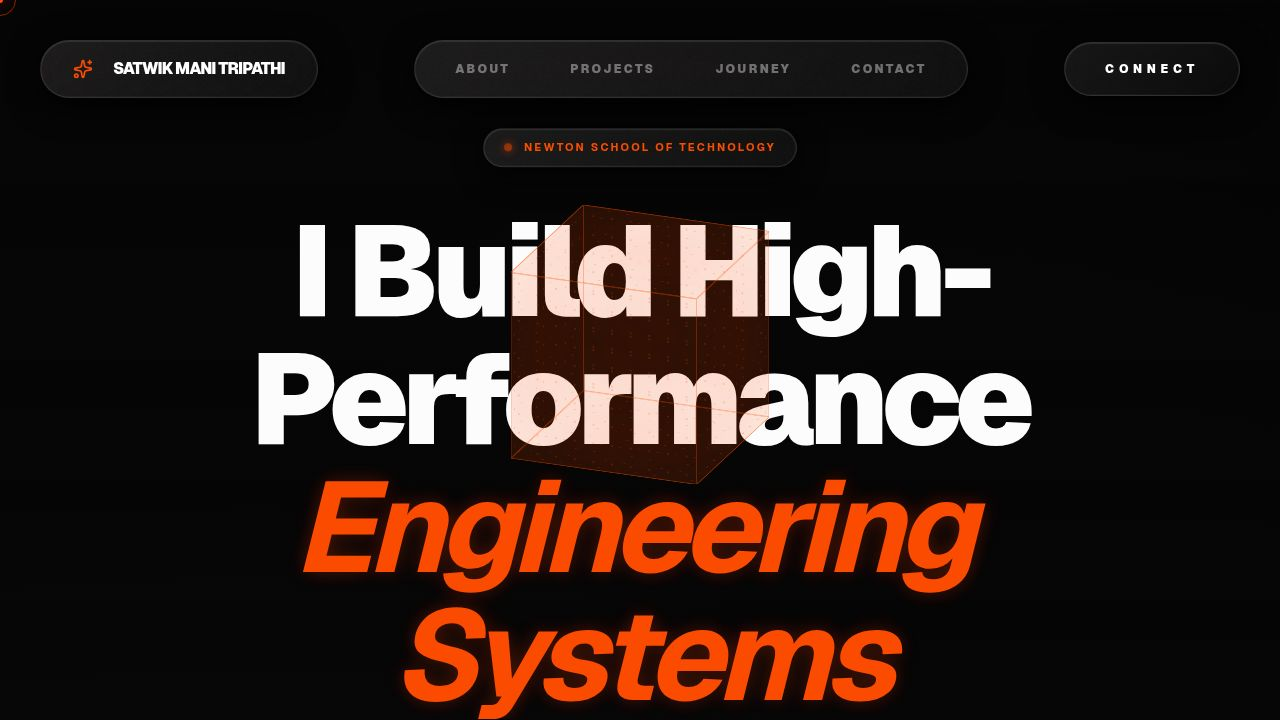
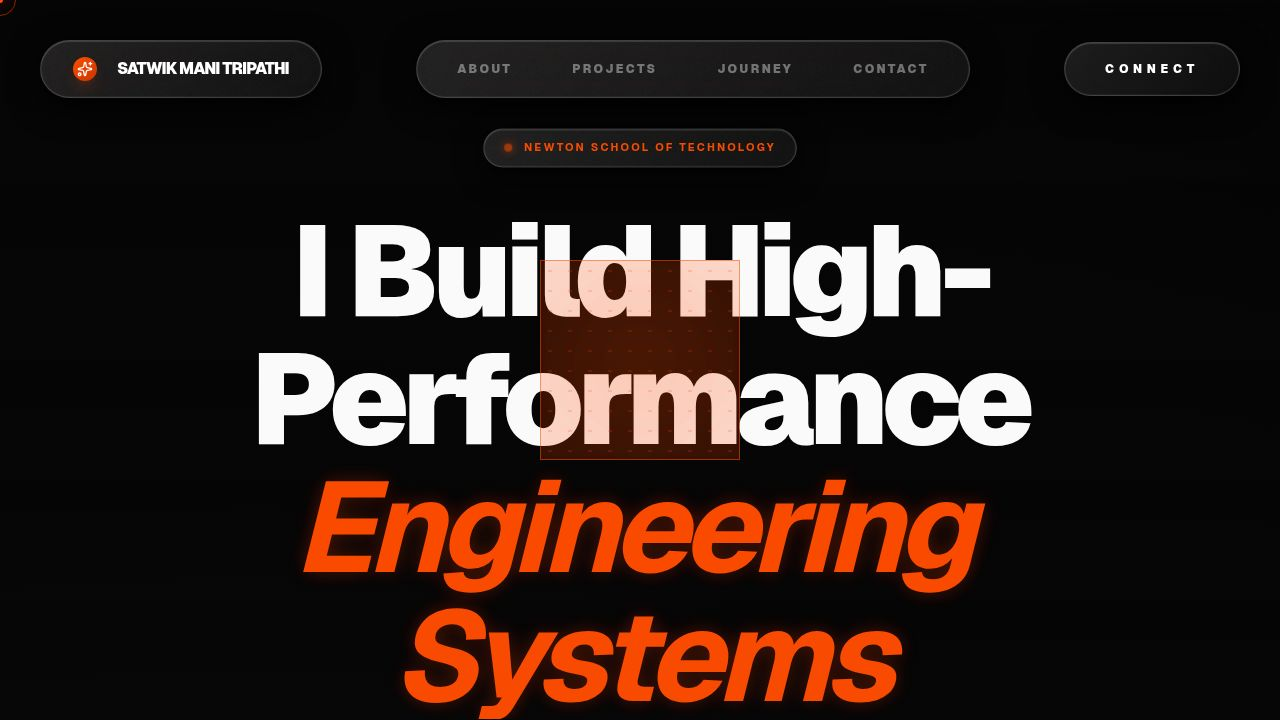
Update portfolio with new project links and refined visual effects
Refines the 'glass' effect in CSS, updates 'SatKart' and 'Edusity' project links and descriptions in `portfolio.tsx`, and modifies the `FloatingCube` component to use scroll progress for rotation and opacity.

Replit-Commit-Author: Agent
Replit-Commit-Session-Id: b985b796-da01-4a46-af7f-7fb098eac1ac
Replit-Commit-Checkpoint-Type: full_checkpoint
Replit-Commit-Event-Id: 80c53ece-b6ea-4242-aa22-f7d85b203408
Replit-Commit-Screenshot-Url: https://storage.googleapis.com/screenshot-production-us-central1/629f8697-c7b1-4d00-ad95-db7141d43aa1/b985b796-da01-4a46-af7f-7fb098eac1ac/iTkoNna
Replit-Helium-Checkpoint-Created: true

diff --git a/client/src/pages/portfolio.tsx b/client/src/pages/portfolio.tsx
@@ -45,17 +45,17 @@ const projectsData: Project[] = [
     architecture: ["Prisma ORM", "Node.js", "JWT Auth", "React", "Tailwind CSS"],
     metrics: ["Full CRUD Operations", "Secure Authentication", "Responsive UI Design"],
     tags: ["Full-stack", "E-commerce", "Web Development"],
-    liveUrl: "https://satkart-commerce.vercel.app",
+    liveUrl: "https://sat-kart-frontend-5ver-iwdeuo3tn-satwiks-projects-8102ca2d.vercel.app/?_vercel_share=Q6KL0B3A6roGyVszSXcjvsLYtdgEfrDf",
   },
   {
     id: "edusity",
-    title: "Edusity — Learning Platform",
-    description: "Educational frontend platform with real-time feedback and responsive learning modules.",
-    longDescription: "Edusity is a modern educational interface designed for clarity and engagement. It delivers a fluid learning experience with instant quiz feedback, progress tracking, and interactive carousels. The project demonstrates advanced frontend state management and accessible UI components built with a focus on usability.",
+    title: "Edusity — University Portal",
+    description: "Higher education platform helping students find the ideal degree and navigate university resources.",
+    longDescription: "Edusity is a specialized university interface designed to guide students through academic decision-making. It features a comprehensive directory of degrees, campus resources, and interactive modules to help prospective students check which path is best for them. The project focuses on clear information hierarchy and accessible educational design.",
     architecture: ["React", "Framer Motion", "Tailwind CSS", "JavaScript", "HTML/CSS"],
-    metrics: ["Interactive Quizzes", "Real-time Search", "Infinite Carousel UI"],
-    tags: ["Frontend Engineering", "EdTech", "UX Design"],
-    liveUrl: "https://edusity-platform.vercel.app",
+    metrics: ["Degree Discovery System", "University Resource Hub", "Responsive Educational UI"],
+    tags: ["Higher Education", "EdTech", "UX Research"],
+    liveUrl: "https://edusity-learning-mrxe.vercel.app/",
   },
 ];
 
@@ -198,8 +198,10 @@ function CursorTrail() {
 }
 
 function FloatingCube() {
-  const { scrollY } = useScroll();
-  const opacity = useTransform(scrollY, [0, 500, 1000], [0.7, 0.4, 0]);
+  const { scrollYProgress } = useScroll();
+  const rotateX = useTransform(scrollYProgress, [0, 1], [0, 360]);
+  const rotateY = useTransform(scrollYProgress, [0, 1], [0, 720]);
+  const opacity = useTransform(scrollYProgress, [0, 0.5, 1], [0.7, 0.4, 0.1]);
 
   return (
     <motion.div 
@@ -207,20 +209,12 @@ function FloatingCube() {
       style={{ opacity }}
     >
       <motion.div
-        animate={{
-          rotateY: [0, 360],
-          rotateX: [0, 360],
-          y: [-20, 20, -20],
-        }}
-        transition={{
-          duration: 15,
-          repeat: Infinity,
-          ease: "linear",
-        }}
         style={{
           width: 200,
           height: 200,
           transformStyle: "preserve-3d",
+          rotateX,
+          rotateY,
         }}
       >
         {[
@@ -233,7 +227,7 @@ function FloatingCube() {
         ].map((transform, i) => (
           <div
             key={i}
-            className="absolute inset-0 border-[1.5px] border-accent/60 bg-accent/10 flex items-center justify-center overflow-hidden"
+            className="absolute inset-0 border-[1.5px] border-accent/60 bg-accent/10 flex items-center justify-center overflow-hidden backdrop-blur-sm"
             style={{ 
               transform,
               backgroundImage: "radial-gradient(circle, rgba(255,68,0,0.3) 1.5px, transparent 1.5px)",
@@ -664,7 +658,9 @@ export default function Portfolio() {
       <header className="fixed top-0 left-0 right-0 z-50 px-10 py-10 pointer-events-none">
         <nav className="mx-auto max-w-7xl flex justify-between items-center pointer-events-auto">
           <div className="glass px-8 py-4 rounded-full flex items-center gap-5 grain ring-1 ring-white/30 shadow-2xl backdrop-blur-xl">
-            <Sparkles className="h-5 w-5 text-accent" />
+            <div className="h-6 w-6 rounded-lg bg-gradient-to-br from-accent to-orange-700 flex items-center justify-center shadow-lg shadow-accent/20">
+              <Sparkles className="h-4 w-4 text-white" />
+            </div>
             <span className="text-base font-black tracking-tighter text-white uppercase">Satwik Mani Tripathi</span>
           </div>
           <div className="hidden sm:flex glass px-4 py-2.5 rounded-full items-center gap-3 grain ring-1 ring-white/10 shadow-xl backdrop-blur-xl">

diff --git a/client/src/index.css b/client/src/index.css
@@ -94,25 +94,26 @@
 
 @layer utilities {
   .glass {
-    background: linear-gradient(135deg, rgba(255, 255, 255, 0.08) 0%, rgba(255, 255, 255, 0.03) 100%);
-    border: 1px solid rgba(255, 255, 255, 0.12);
+    background: linear-gradient(135deg, rgba(255, 255, 255, 0.1) 0%, rgba(255, 255, 255, 0.04) 100%);
+    border: 1px solid rgba(255, 255, 255, 0.18);
     box-shadow: 
-      0 8px 32px 0 rgba(0, 0, 0, 0.9),
-      inset 0 0 0 1px rgba(255, 255, 255, 0.03),
-      inset 0 1px 1px 0 rgba(255, 255, 255, 0.08);
-    backdrop-filter: blur(24px) saturate(200%);
-    -webkit-backdrop-filter: blur(24px) saturate(200%);
+      0 8px 32px 0 rgba(0, 0, 0, 0.95),
+      inset 0 0 0 1px rgba(255, 255, 255, 0.04),
+      inset 0 1px 1px 0 rgba(255, 255, 255, 0.12);
+    backdrop-filter: blur(28px) saturate(200%);
+    -webkit-backdrop-filter: blur(28px) saturate(200%);
   }
 
   .glass-card {
-    background: linear-gradient(135deg, rgba(255, 255, 255, 0.06) 0%, rgba(255, 255, 255, 0.02) 100%);
-    border: 1px solid rgba(255, 255, 255, 0.1);
+    background: linear-gradient(135deg, rgba(255, 255, 255, 0.08) 0%, rgba(255, 255, 255, 0.03) 100%);
+    border: 1px solid rgba(255, 255, 255, 0.15);
     box-shadow: 
-      0 4px 24px -1px rgba(0, 0, 0, 0.7),
-      inset 0 1px 1px 0 rgba(255, 255, 255, 0.06);
-    backdrop-filter: blur(28px) saturate(200%);
-    -webkit-backdrop-filter: blur(28px) saturate(200%);
-    border-radius: 1.5rem;
+      0 10px 40px -2px rgba(0, 0, 0, 0.8),
+      inset 0 1px 1px 0 rgba(255, 255, 255, 0.1),
+      inset 0 0 0 1px rgba(255, 255, 255, 0.02);
+    backdrop-filter: blur(32px) saturate(210%);
+    -webkit-backdrop-filter: blur(32px) saturate(210%);
+    border-radius: 2.5rem;
   }
 
   .glass-highlight {
